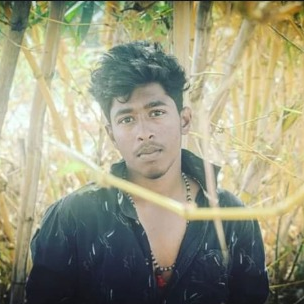
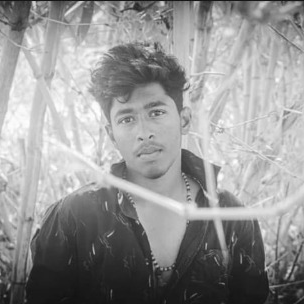
Convert first image to greyscale and stretch second image to exact height of the two cards

diff --git a/index.html b/index.html
@@ -92,6 +92,7 @@
       <p class="section__text__p1">Get To Know More</p>
       <h1 class="title">About Me</h1>
       <div class="section-container">
+        <!-- Second Image: Perfectly matches the height of the two divs -->
         <div class="section__pic-container">
           <img
             src="./assets/about-pic.png"
@@ -99,46 +100,46 @@
             class="about-pic"
           />
         </div>
-        <div class="about-details-container">
-          <div class="about-containers">
-            <!-- Experience Card -->
-            <div class="details-container">
-              <img
-                src="./assets/experience.svg"
-                alt="Experience icon"
-                class="icon"
-              />
-              <h3>Experience</h3>
-              <p>
-                <strong>Full Stack Intern</strong><br />
-                Innovitegra Solutions (FinTech)<br /><br />
-                <strong>Python Full Stack Intern</strong><br />
-                Dheecoding Lab (Software Training Institute)
-              </p>
-            </div>
-            <!-- Education Card -->
-            <div class="details-container">
-              <img
-                src="./assets/education.svg"
-                alt="Education icon"
-                class="icon"
-              />
-              <h3>Education</h3>
-              <p>
-                <strong>B.Tech in Computer Science</strong><br />
-                Presidency University, Bangalore<br />
-                (2021 – 2025)<br /><br />
-                <strong>Pre-University (PCMB)</strong><br />
-                BEL Composite College
-              </p>
-            </div>
-          </div>
-          <div class="text-container">
+        <!-- The Two Divs: Experience & Education -->
+        <div class="about-containers">
+          <!-- Experience Card (Div 1) -->
+          <div class="details-container">
+            <img
+              src="./assets/experience.svg"
+              alt="Experience icon"
+              class="icon"
+            />
+            <h3>Experience</h3>
             <p>
-              I am an aspiring Software Engineer and Full Stack Developer skilled in <strong>Python, Django, FastAPI, React, SQL</strong>, and <strong>Machine Learning</strong>. I have practical experience developing web applications and customer risk assessment workflows in financial technology systems (evaluating Politically Exposed Persons and country risk profiles). I am passionate about engineering scalable, secure, and performant digital solutions while continuously mastering algorithmic problem solving.
+              <strong>Full Stack Intern</strong><br />
+              Innovitegra Solutions (FinTech)<br /><br />
+              <strong>Python Full Stack Intern</strong><br />
+              Dheecoding Lab (Software Training Institute)
+            </p>
+          </div>
+          <!-- Education Card (Div 2) -->
+          <div class="details-container">
+            <img
+              src="./assets/education.svg"
+              alt="Education icon"
+              class="icon"
+            />
+            <h3>Education</h3>
+            <p>
+              <strong>B.Tech in Computer Science</strong><br />
+              Presidency University, Bangalore<br />
+              (2021 – 2025)<br /><br />
+              <strong>Pre-University (PCMB)</strong><br />
+              BEL Composite College
             </p>
           </div>
         </div>
+      </div>
+      <!-- Bio text sits cleanly underneath both image & cards -->
+      <div class="text-container">
+        <p>
+          I am an aspiring Software Engineer and Full Stack Developer skilled in <strong>Python, Django, FastAPI, React, SQL</strong>, and <strong>Machine Learning</strong>. I have practical experience developing web applications and customer risk assessment workflows in financial technology systems (evaluating Politically Exposed Persons and country risk profiles). I am passionate about engineering scalable, secure, and performant digital solutions while continuously mastering algorithmic problem solving.
+        </p>
       </div>
     </section>
 

diff --git a/style.css b/style.css
@@ -228,6 +228,8 @@ section {
   object-fit: cover;
   border: 4px solid #e2e8f0;
   box-shadow: 0 20px 35px rgba(0,0,0,0.08);
+  filter: grayscale(100%);
+  -webkit-filter: grayscale(100%);
 }
 
 .section__text {
@@ -316,19 +318,19 @@ section {
 
 #about .section-container {
   display: flex;
-  align-items: flex-start;
+  align-items: stretch;
   justify-content: center;
-  gap: 3.5rem;
+  gap: 2.5rem;
   margin-top: 2rem;
+  width: 100%;
 }
 
 #about .section__pic-container {
-  width: 330px;
-  min-width: 330px;
-  height: 380px;
+  width: 290px;
+  min-width: 290px;
   flex-shrink: 0;
   border-radius: 2rem;
-  align-self: flex-start;
+  display: flex;
 }
 
 .about-pic {
@@ -342,18 +344,23 @@ section {
   -webkit-filter: grayscale(100%);
 }
 
-.about-details-container {
-  display: flex;
-  flex-direction: column;
-  justify-content: center;
-  width: 100%;
-}
-
 .about-containers {
   display: grid;
   grid-template-columns: repeat(2, 1fr);
   gap: 1.5rem;
   width: 100%;
+  align-items: stretch;
+}
+
+#about .text-container {
+  margin-top: 2rem;
+  font-size: 1rem;
+  line-height: 1.7;
+}
+
+#about .text-container p {
+  text-align: center;
+  color: rgb(75, 85, 99);
 }
 
 .details-container {
